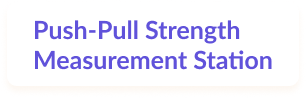
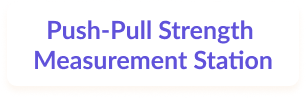
device label + room1 lighting

Changed region(s): [[0.0882, 0.1837, 0.8529, 0.4592]]

diff --git a/room_bodyshape.html b/room_bodyshape.html
@@ -46,6 +46,9 @@
       <img id="hover-text" src="./Images/hover-text-exit.png">
       <img id="data2" src="./Images/data2.png">
 
+      <img id="device-label1" src="./Images/device-label1.png">
+      <img id="device-label2" src="./Images/device-label2.png">
+      <img id="device-label3" src="./Images/device-label3.png">
 
 
     </a-assets>
@@ -71,25 +74,28 @@
     class="clickable" 
     id="ring-desktop"
     ><a-image src="#indicator" scale="0.02 0.02 0.02" rotation="0 0 0" position="0 0.001 0"> </a-image> </a-image>
+  <a-image src="#device-label3" position="7.18 2.04 -2.89" scale="1.07 0.38 1" look-at="#cameraRig" rotation="-15 -90 0"> </a-image>
 
-  <a-image src="#data2" position="7.774 2.3 -4.89" rotation="0 -90 0" scale="1 1 1" id="info-panel-0" visible="false"> </a-image>
+  <a-image src="#data2" position="7.774 2.7 -4.89" rotation="0 -90 0" scale="1.5 1.5 1.5" id="info-panel-0" visible="false"> </a-image>
 
 
     <a-entity gltf-model="#room" scale="35 35 35" position="29.15 -0.09 -12" rotation="0 0 0"></a-entity>
 
-        <!-- jump -->x
+        <!-- jump -->
 
+        <a-image src="#ring-glow" position="5.187 0.54 -6.96" rotation="-90 0 0" scale="12 12 12"
+        class="clickable" 
+        id="ring-jump"
+        ><a-image src="#indicator" scale="0.02 0.02 0.02" rotation="0 0 0" position="0 0.001 0"> </a-image> </a-image>
+    
         <a-entity id="jump-parent" position="-1.47 0.86 -0.92">
-          <a-image src="#ring-glow" position="6.65 -0.3 -6.24" rotation="-90 0 0" scale="12 12 12"
-          class="clickable" 
-          id="ring-jump"
-          ><a-image src="#indicator" scale="0.02 0.02 0.02" rotation="0 0 0" position="0 0.001 0"> </a-image> </a-image>
-      
-      
+
+          <a-image src="#device-label1" position="6.67 3.55 -8.2" scale="1.33 0.46 1" look-at="#cameraRig" rotation="15 0 0"> </a-image>
+          
           <a-entity gltf-model="#jump" scale="0.1 0.12 0.12" position="5.17 -0.39 -10.04" rotation="0 -90 0"></a-entity>
           <a-entity position="5.3 1.8 -7" rotation="-5 0 0" scale="0.5 0.5 0.5" id="info-panel-1" visible="false">
-            <a-entity gltf-model="#jumpFigure" scale="1.6 1.6 1.6" position="2.2 -3.5 0" rotation="0 180 0" animation__yoyo="property: position; dir: alternate; dur: 1000;
-            easing: easeInSine; loop: true; to:2.2 -1.5 0"></a-entity>
+            <a-entity gltf-model="#jumpFigure" scale="1.6 1.6 1.6" position="2.59 -3.5 -0.46" rotation="0 180 0" animation__yoyo="property: position; dir: alternate; dur: 1000;
+            easing: easeInSine; loop: true; to:2.59 -1.83 -0.46"></a-entity>
       
       
             <a-image src="#task-jump" class="clickable" position="0 0 0" id="task1" data-clickable scale="1.8 0.7 0.7"
@@ -124,6 +130,7 @@
     ><a-image src="#indicator" scale="0.02 0.02 0.02" rotation="0 0 90" position="0 0.002 0"> </a-image> </a-image>
 
         <a-entity id="scan-parent" position="-0.63 0.45 -2" rotation="0 0 0">
+          <a-image src="#device-label2" position="0.65 3.96 -2.5" scale="1.33 0.46 1" look-at="#cameraRig" rotation="15 90 0"> </a-image>
 
     
           <a-entity gltf-model="#bodyScan" scale="40 40 40" position="0.5 0 -1.5" rotation="0 90 0"></a-entity>

diff --git a/room1.html b/room1.html
@@ -40,6 +40,8 @@
       <img id="exit" src="./Images/exit-arrow.png"> 
       <img id="hover-text" src="./Images/hover-text-exit.png">
       <img id="device-label0" src="./Images/device-label0.png">
+      <img id="device-label3" src="./Images/device-label3.png">
+
     </a-assets>
 
 
@@ -47,6 +49,7 @@
     <a-entity light="type: spot; color: #b5a1c9; intensity: 0.33 angle: 90" position="1.3 5.181 7.6" id="spot-light-front"></a-entity>
     <a-entity light="type: spot; color: #dec995; intensity: 0.39; angle:120" position="10 -0.13 12.7"  id="spot-light"></a-entity>
     <a-entity light="type: spot; color: #d3c7f0; intensity: 0.3; angle:60" position="4.2 1.5 -17" rotation="0 180 0" id="spot-light-left"></a-entity>
+    <a-entity light="type: spot; color: #f0e0ed; intensity: 0.1; angle:30" position="14.2 -1.5 -2.8" rotation="0 90 0" id="spot-light-back"></a-entity>
 
     <a-entity light="type: directional; color: #fad6ff; intensity: 0.29 angle:120" position="5.68 1.8 -0.92"  id="point-light-right"></a-entity>
 
@@ -82,8 +85,9 @@ id="ring-desktop"
 
 <a-entity gltf-model="#desktop" scale="2.4 2.4 2.4" position="11.79 -0.39 -7.44" rotation="-90 90 0">
 </a-entity>
+<a-image src="#device-label3" position="12.38 1.9 -5.99" scale="1.07 0.38 1" look-at="#cameraRig" rotation="-15 0 0"> </a-image>
 
-<a-image src="#data1" position="10.51 2.3 -6" rotation="0 0 0" scale="1 1 1" id="info-panel-1" visible="false"> </a-image>
+<a-image src="#data1" position="10.51 2.7 -6" rotation="0 0 0" scale="1.25 1.25 1.25" id="info-panel-1" visible="false"> </a-image>
 
 
 
